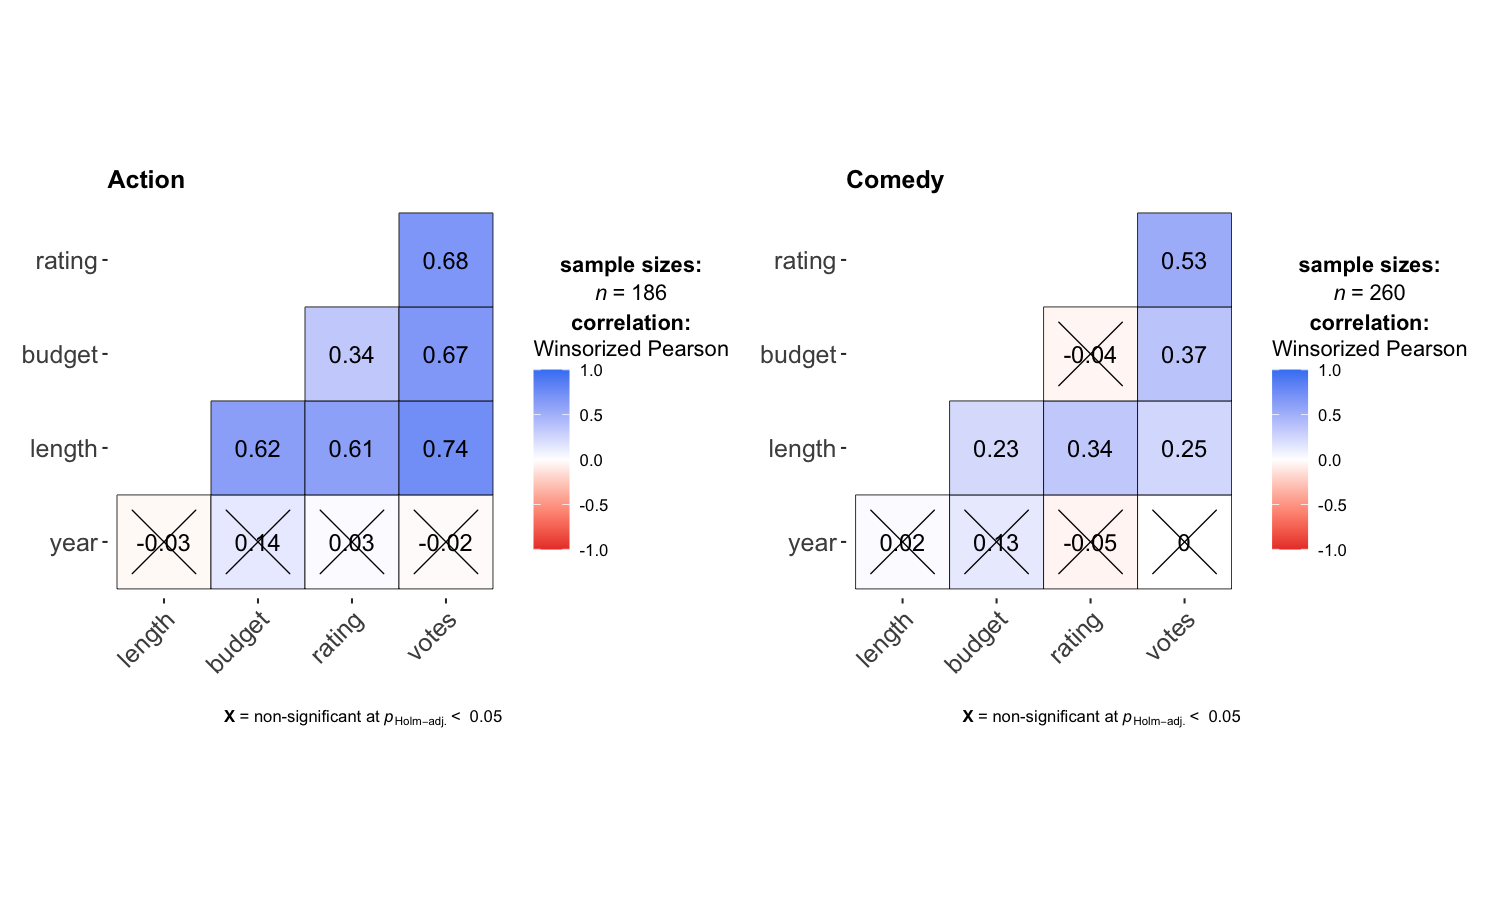
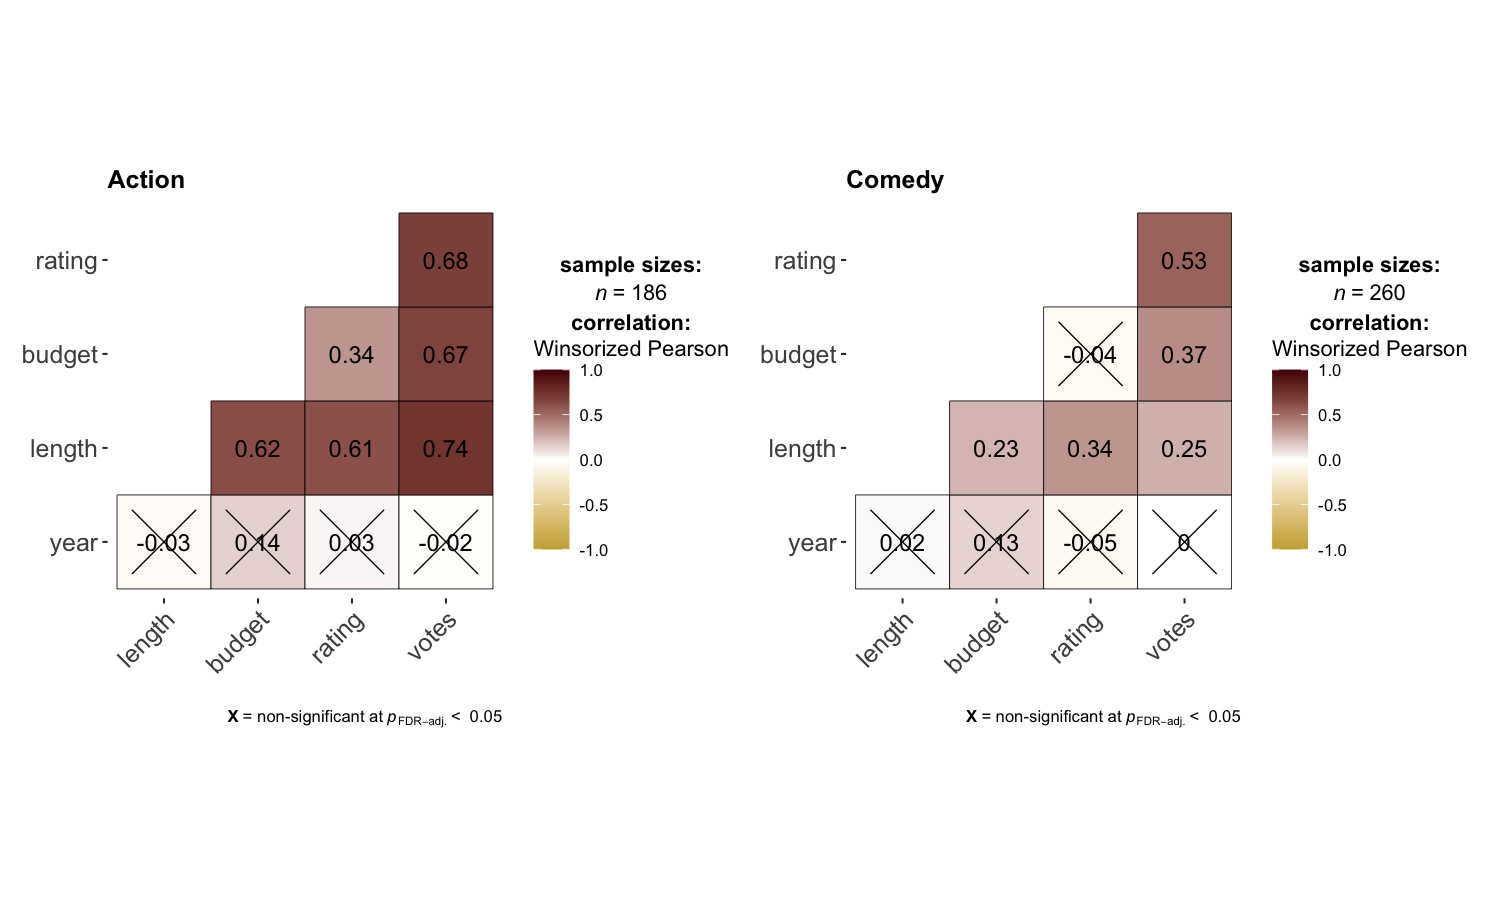
docs: use FDR p-adjustment in grouped_ggcorrmat README example

diff --git a/README.md b/README.md
@@ -490,11 +490,12 @@ to repeat the same operation across a **single** grouping variable:
 set.seed(123)
 
 grouped_ggcorrmat(
-  data         = dplyr::filter(movies_long, genre %in% c("Action", "Comedy")),
-  type         = "robust",
-  colors       = c("#cbac43", "white", "#550000"),
-  grouping.var = genre,
-  matrix.type  = "lower"
+  data            = dplyr::filter(movies_long, genre %in% c("Action", "Comedy")),
+  type            = "robust",
+  colors          = c("#cbac43", "white", "#550000"),
+  grouping.var    = genre,
+  p.adjust.method = "fdr",
+  matrix.type     = "lower"
 )
 ```
 
